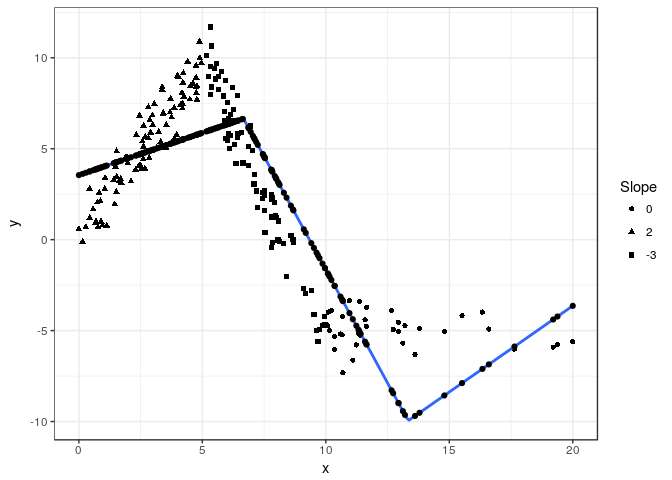
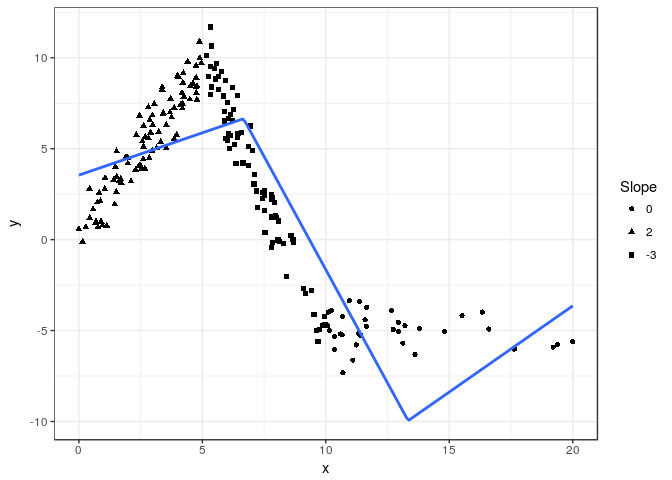
Updates and fixes to README

diff --git a/README.md b/README.md
@@ -115,7 +115,6 @@ Function `elspline()` sets the knots at points dividing the range of `x` into `n
 
 ``` r
 m3 <- lm(y ~ elspline(x, 3), data=d)
-d$f3 <- fitted(m3)
 knitr::kable(broom::tidy(m3))
 ```
 
@@ -130,8 +129,7 @@ Graphically
 
 ``` r
 fig +
-  geom_smooth(aes(group=1), method="lm", formula=formula(m3), se=FALSE, n=200) +
-  geom_point(aes(y=f3), data=d)
+  geom_smooth(aes(group=1), method="lm", formula=formula(m3), se=FALSE, n=200)
 ```
 
 ![](tools/elspline-fitted-1.png)
@@ -143,11 +141,6 @@ Function `qlspline()` sets the knots at points dividing the range of `x` into `q
 
 ``` r
 m4 <- lm(y ~ qlspline(x, 4), data=d)
-d$f4 <- fitted(m4)
-p <- data.frame(
-  x= seq(min(d$x), max(d$x), length=200)
-)
-p$y <- predict(m4, p)
 knitr::kable(broom::tidy(m4))
 ```
 
@@ -174,13 +167,13 @@ Installation
 Stable version from CRAN or development version from GitHub with
 
 ``` r
-devtools::install_github("mbojan/lspline")
+devtools::install_github("mbojan/lspline", build_vignettes=TRUE)
 ```
 
 Acknowledgements
 ================
 
-Inspired by Stata command `mkspline` and function `ares::lspline` from Junger & Ponce de Leon (2011). As such, the implementation follow Greene (2003), chapter 7.5.2.
+Inspired by Stata command `mkspline` and function `ares::lspline` from Junger & Ponce de Leon (2011). As such, the implementation follows Greene (2003), chapter 7.5.2.
 
 -   Greene, William H. (2003) *Econometric analysis*. Pearson Education
 -   Junger & Ponce de Leon (2011) *`ares`: Environment air pollution epidemiology: a library for timeseries analysis*. R package version 0.7.2 retrieved from CRAN archives.
